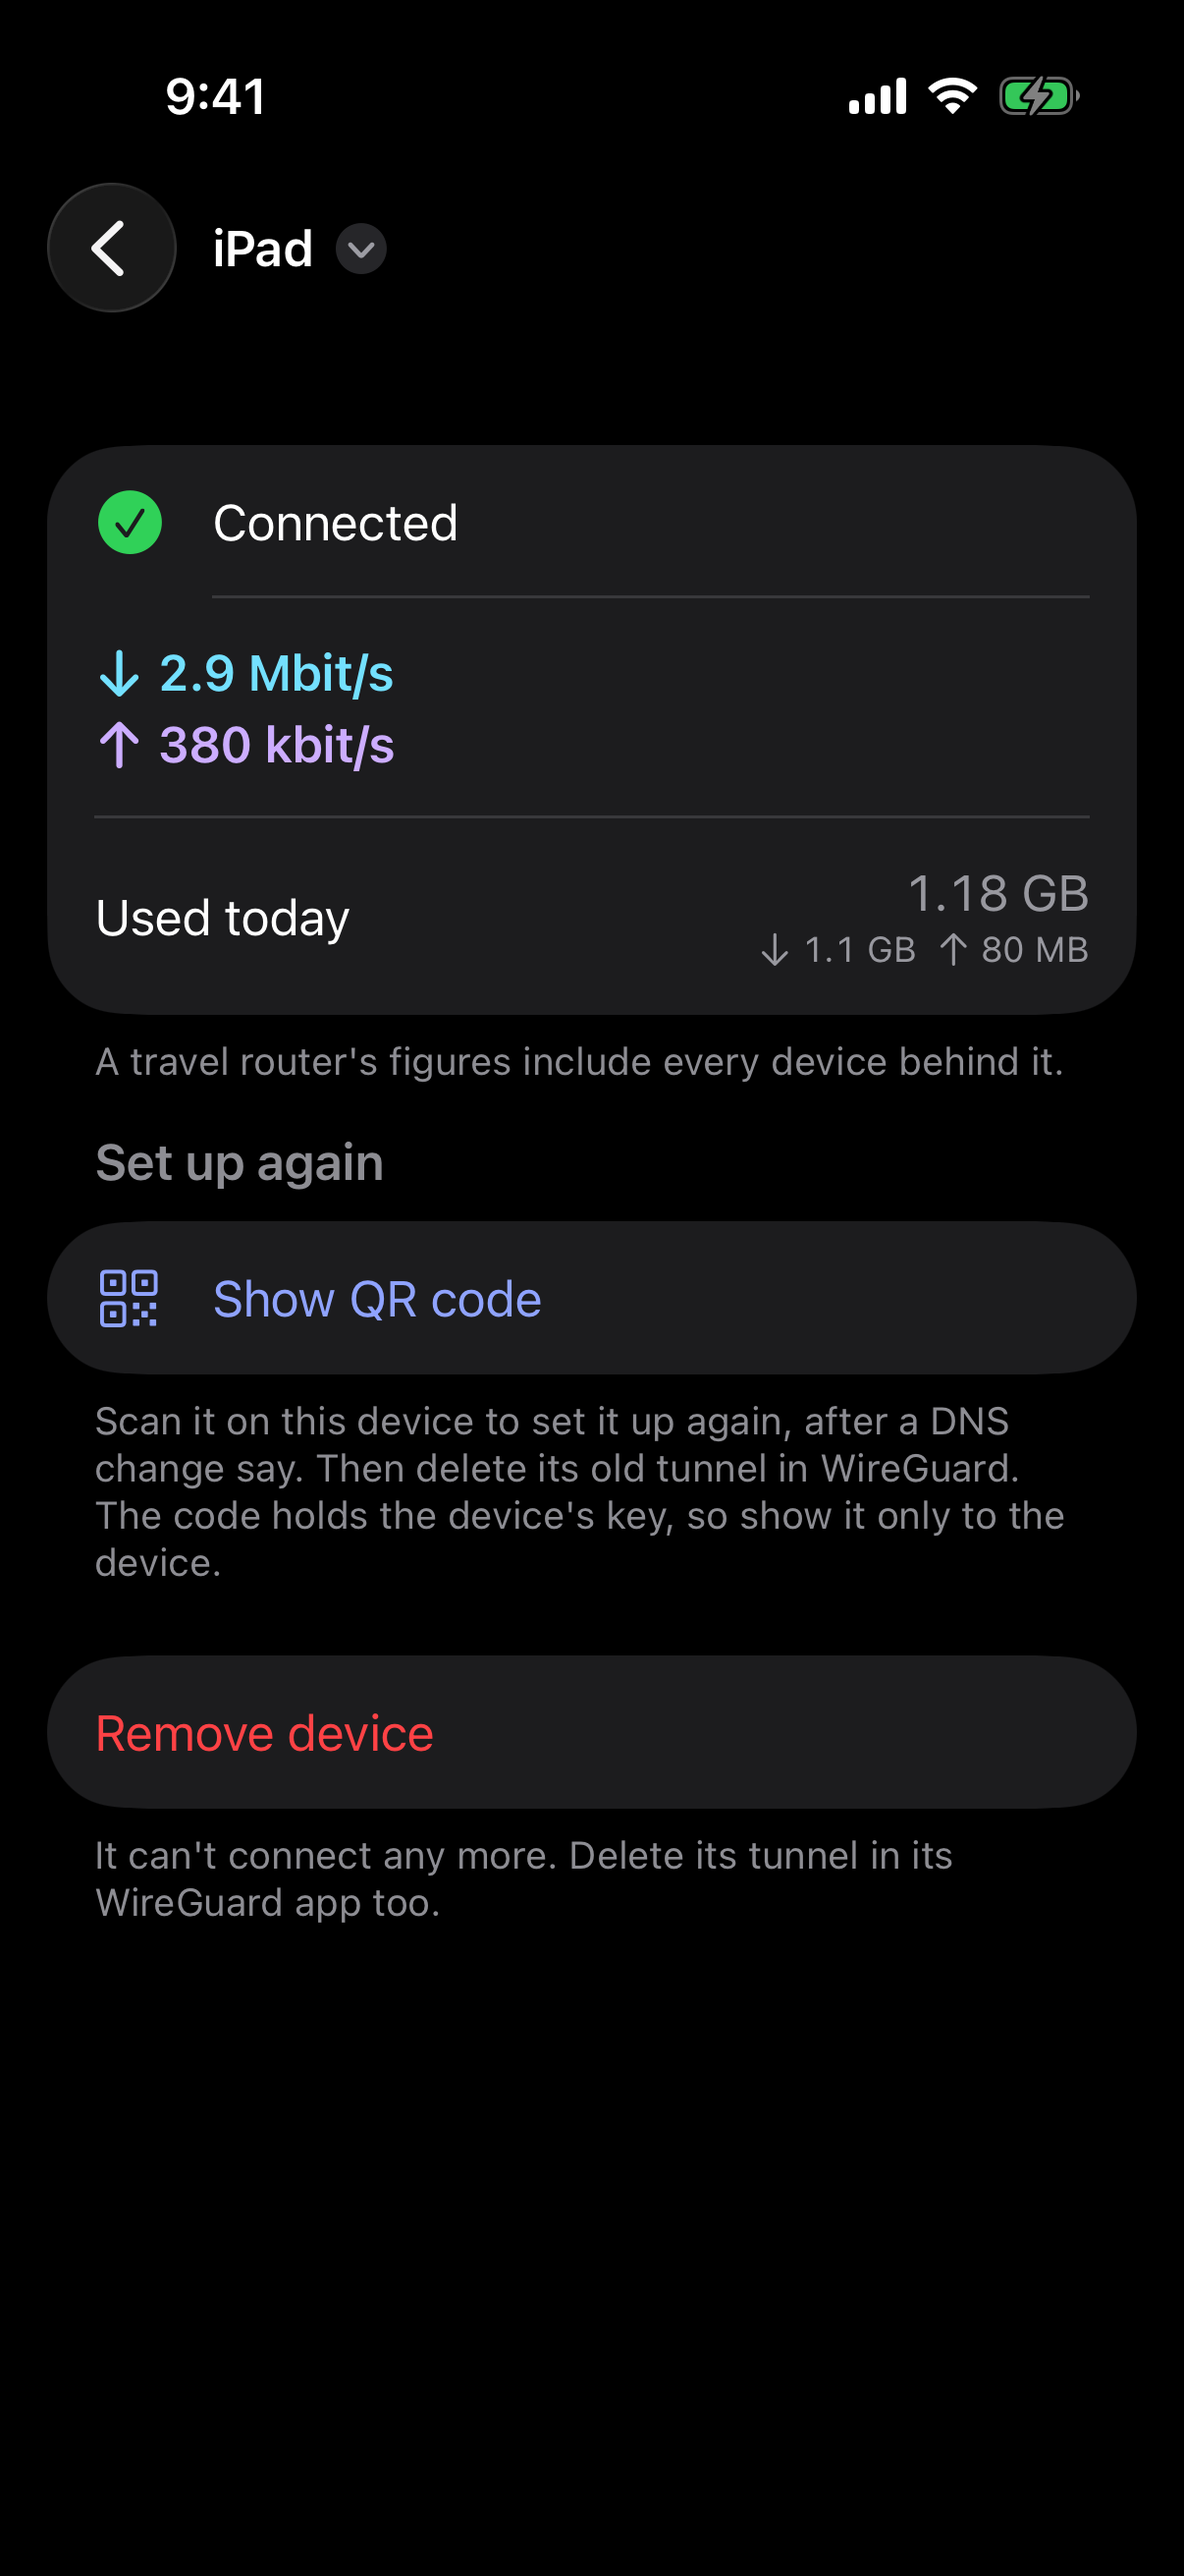
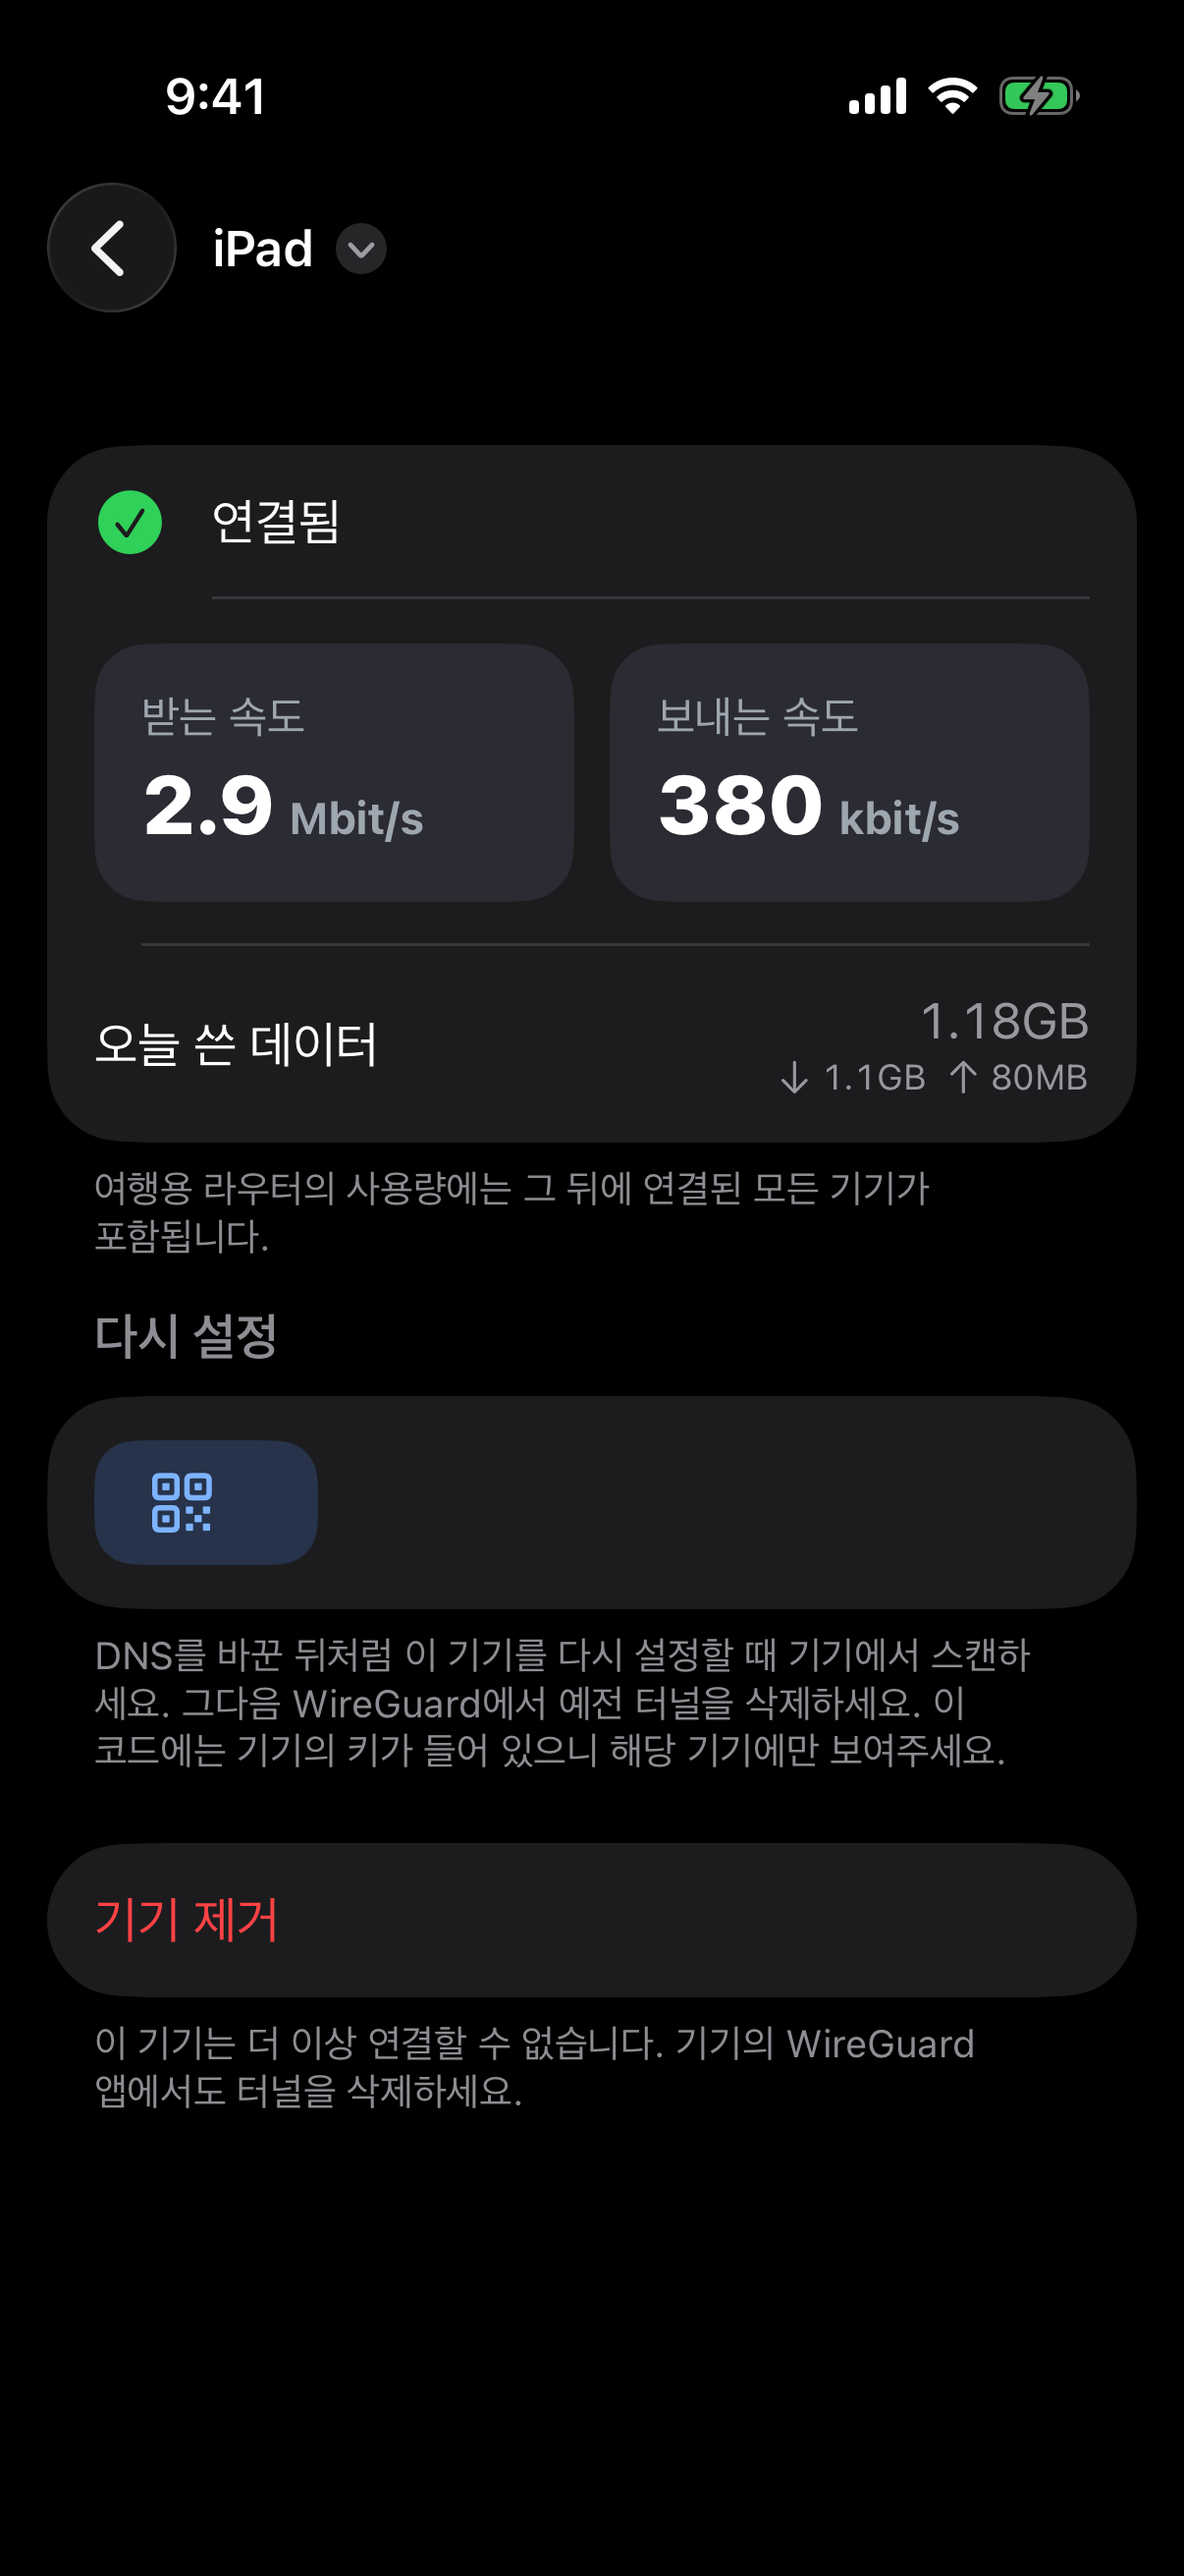
Bring the device, usage, DNS and appearance screens onto the new look
The device screen is cards on the page like the main screen: its status,
speed and usage; Set up again with one grey line, the QR code, two
one-line steps and the buttons; and a red Remove device button that asks
in the bottom sheet. Out of the List, the Show QR code button keeps its
words, which the List had dropped. The long grey footers are gone.
The usage, DNS and appearance lists sit on the same page and card colours.
The screenshots are the ones taken from b623c29.

Claude-Session: https://claude.ai/code/session_01BhqJTW5FRatJ82E1zxbU1q

Changed region(s): [[0.0307, 0.2471, 0.9818, 0.8341], [0.1841, 0.1854, 0.3988, 0.2162]]

diff --git a/Sources/DevicesView.swift b/Sources/DevicesView.swift
@@ -148,63 +148,62 @@ struct DeviceView: View {
     private var connected: Bool { model.wireGuardConnected.contains(peer.address) }
 
     var body: some View {
-        List {
-            Section {
-                ConnectedLabel(connected: connected)
-                    .accessibilityIdentifier("device.status")
-                if connected {
-                    SpeedRow(down: model.deviceSpeeds[peer.address]?.down ?? 0, up: model.deviceSpeeds[peer.address]?.up ?? 0)
-                        .accessibilityIdentifier("device.speeds")
-                }
-                UsageRow(title: "Used today", bytes: model.usageToday.devices[peer.id.uuidString] ?? Usage.Bytes())
-                    .accessibilityIdentifier("device.usage")
-            } footer: {
-                Text("A travel router's figures include every device behind it.")
-            }
-            Section {
-                if let code {
-                    if let qr = code.qr {
-                        Image(uiImage: qr)
-                            .interpolation(.none)
-                            .resizable()
-                            .scaledToFit()
-                            .padding(14)
-                            .background(Color.white, in: RoundedRectangle(cornerRadius: 18, style: .continuous))
-                            .frame(maxWidth: 240)
-                            .frame(maxWidth: .infinity)
-                            .padding(.vertical, 8)
-                            .accessibilityLabel("QR code for this device")
-                            .accessibilityIdentifier("device.qr")
+        ScrollView {
+            VStack(spacing: 12) {
+                Tile {
+                    ConnectedLabel(connected: connected)
+                        .font(.title3.weight(.heavy))
+                        .accessibilityIdentifier("device.status")
+                    if connected {
+                        SpeedRow(down: model.deviceSpeeds[peer.address]?.down ?? 0, up: model.deviceSpeeds[peer.address]?.up ?? 0)
+                            .accessibilityIdentifier("device.speeds")
                     }
-                    if let file = code.file {
-                        ShareLink(item: file) {
-                            Label("Share as a file, for a Mac or a router", systemImage: "square.and.arrow.up")
+                    UsageRow(title: "Used today", bytes: model.usageToday.devices[peer.id.uuidString] ?? Usage.Bytes())
+                        .accessibilityIdentifier("device.usage")
+                }
+
+                Tile(title: "Set up again", subtitle: "Show it only to this device") {
+                    if let code {
+                        if let qr = code.qr {
+                            Image(uiImage: qr)
+                                .interpolation(.none)
+                                .resizable()
+                                .scaledToFit()
+                                .padding(14)
+                                .background(Color.white, in: RoundedRectangle(cornerRadius: 18, style: .continuous))
+                                .frame(maxWidth: 240)
+                                .frame(maxWidth: .infinity)
+                                .accessibilityLabel("QR code for this device")
+                                .accessibilityIdentifier("device.qr")
                         }
-                        .buttonStyle(ActionButtonStyle())
-                    }
-                    Button("Hide QR code") { self.code = nil }
+                        Steps(steps: ["Scan it on this device", "Delete the old tunnel in WireGuard"])
+                        if let file = code.file {
+                            ShareLink(item: file) {
+                                Label("Share as a file, for a Mac or a router", systemImage: "square.and.arrow.up")
+                            }
+                            .buttonStyle(ActionButtonStyle(fullWidth: true))
+                        }
+                        Button("Hide QR code") { self.code = nil }
+                            .buttonStyle(ViewButtonStyle())
+                    } else {
+                        Button {
+                            showCode()
+                        } label: {
+                            Label("Show QR code", systemImage: "qrcode")
+                        }
                         .buttonStyle(ViewButtonStyle())
-                } else {
-                    Button {
-                        showCode()
-                    } label: {
-                        Label("Show QR code", systemImage: "qrcode")
+                        .accessibilityIdentifier("device.showQR")
                     }
-                    .buttonStyle(ViewButtonStyle())
-                    .accessibilityIdentifier("device.showQR")
                 }
-            } header: {
-                Text("Set up again")
-            } footer: {
-                Text("Scan it on this device to set it up again, after a DNS change say. Then delete its old tunnel in WireGuard. The code holds the device's key, so show it only to the device.")
-            }
-            Section {
-                Button("Remove device", role: .destructive) { confirmRemove = true }
+
+                Button("Remove device") { confirmRemove = true }
+                    .buttonStyle(DestructiveButtonStyle())
                     .accessibilityIdentifier("device.remove")
-            } footer: {
-                Text("It can't connect any more. Delete its tunnel in its WireGuard app too.")
             }
+            .padding(.horizontal, 16)
+            .padding(.vertical, 8)
         }
+        .background(Brand.page)
         .navigationTitle(Binding(get: { current.name }, set: { model.renameWireGuardDevice(peer.id, to: $0) }))
         .navigationBarTitleDisplayMode(.inline)
         .toolbarRole(.editor)
@@ -333,6 +332,7 @@ struct DNSView: View {
             } footer: {
                 Text("Devices you add from now on use these. A device already added keeps its own: change DNS in its WireGuard tunnel, or remove it and add it again.")
             }
+            .listRowBackground(Brand.card)
 
             Section {
                 TextField("For example 192.168.8.1", text: $custom)
@@ -352,7 +352,9 @@ struct DNSView: View {
                         .foregroundStyle(.red)
                 }
             }
+            .listRowBackground(Brand.card)
         }
+        .pageList()
         .navigationTitle("DNS")
         .navigationBarTitleDisplayMode(.inline)
         .onAppear {

diff --git a/Sources/UsageView.swift b/Sources/UsageView.swift
@@ -32,6 +32,7 @@ struct UsageView: View {
             } header: {
                 Text("This month")
             }
+            .listRowBackground(Brand.card)
 
             Section {
                 Chart(days, id: \.day) { day in
@@ -55,6 +56,7 @@ struct UsageView: View {
             } header: {
                 Text("Last 30 days")
             }
+            .listRowBackground(Brand.card)
 
             Section {
                 Toggle("Monthly limit", isOn: $limitOn)
@@ -69,7 +71,9 @@ struct UsageView: View {
             } footer: {
                 Text("Flux sends a notification at 80 and at 100 percent of the limit, once each a month. It only counts what Flux shared, not what the iPhone used itself.")
             }
+            .listRowBackground(Brand.card)
         }
+        .pageList()
         .navigationTitle("Usage")
         .navigationBarTitleDisplayMode(.inline)
         .onAppear {

diff --git a/Sources/Theme.swift b/Sources/Theme.swift
@@ -46,6 +46,13 @@ extension View {
     }
 }
 
+extension View {
+    /// A pushed screen's List, on the same page and cards as the main screen.
+    func pageList() -> some View {
+        scrollContentBackground(.hidden).background(Brand.page)
+    }
+}
+
 /// Solid blue, white text: a button that does something (share, apply).
 struct ActionButtonStyle: ButtonStyle {
     var fullWidth = false

diff --git a/Sources/Appearance.swift b/Sources/Appearance.swift
@@ -54,7 +54,9 @@ struct AppearanceView: View {
             } footer: {
                 Text("Automatic follows the iPhone's setting.")
             }
+            .listRowBackground(Brand.card)
         }
+        .pageList()
         .navigationTitle("Appearance")
         .navigationBarTitleDisplayMode(.inline)
     }
